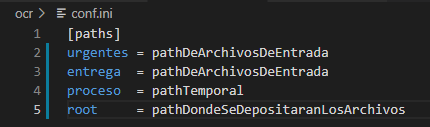
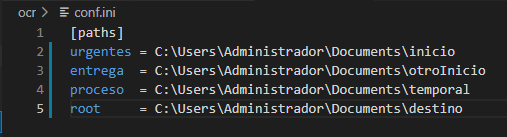
Documentacion

diff --git a/README.md b/README.md
@@ -39,8 +39,11 @@
 ### configuracion del *conf.ini* 
 * Abrir con su editor de texto favorito :wink:
 
-![paths!](imagesDocumentacion/paths.png)
+    ![paths!](imagesDocumentacion/paths.png)
 
+    Sustituimos por la ruta a nuestros directorios sobre los que queremos trabajar.
+
+    *urgentes* y *entrega* pueden apuntar hacia el mismo directorio, mientras proceso debe apuntar a otro directorio disntinto fuera de la raiz de los directorios de *urgentes* y *entrega* con el fin de evitar errores ya que el proceso es recursico. *root* debe apuntar a el directorio final donde se depositaran los archivos al final del proceso de ***OCR*** y ***compresión***.
 
 
 
